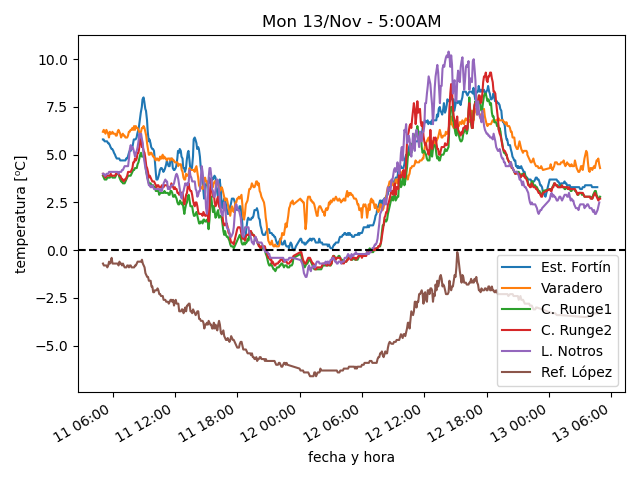
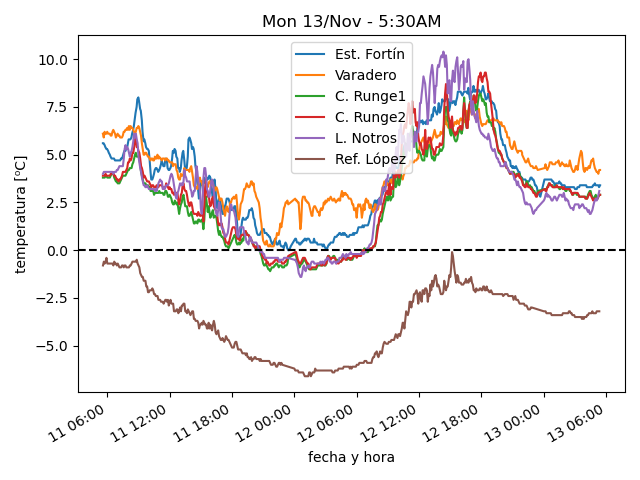
actualiza datos

diff --git a/estaciones/estacion6.html b/estaciones/estacion6.html
@@ -18,32 +18,32 @@
     </tr>
     <tr>
      <td class="stats_data">
-      4:45AM
+      5:20AM
      </td>
     </tr>
     <tr>
      <td class="stats_data">
-      -3.3⁰C
+      -3.2⁰C
      </td>
     </tr>
     <tr>
      <td class="stats_data">
-      -4.7⁰C
+      -4.8⁰C
      </td>
     </tr>
     <tr>
      <td class="stats_data">
-      90.0%
+      89.0%
      </td>
     </tr>
     <tr>
      <td class="stats_data">
-      1019.61hPa
+      1019.44hPa
      </td>
     </tr>
     <tr>
      <td class="stats_data">
-      9.7/29.0 km/hr SW
+      12.9/30.6 km/hr SW
      </td>
     </tr>
     <tr>
@@ -58,7 +58,7 @@
     </tr>
     <tr>
      <td class="stats_data">
-      900.0 W/m²
+      899.0 W/m²
      </td>
     </tr>
    </tbody>

diff --git a/estaciones/estacion2.html b/estaciones/estacion2.html
@@ -18,32 +18,32 @@
     </tr>
     <tr>
      <td class="stats_data">
-      4:54AM
+      5:24AM
      </td>
     </tr>
     <tr>
      <td class="stats_data">
-      4.3⁰C
+      4.2⁰C
      </td>
     </tr>
     <tr>
      <td class="stats_data">
-      -0.1⁰C
+      -0.4⁰C
      </td>
     </tr>
     <tr>
      <td class="stats_data">
-      72.8%
+      72.0%
      </td>
     </tr>
     <tr>
      <td class="stats_data">
-      1021.33hPa
+      1020.93hPa
      </td>
     </tr>
     <tr>
      <td class="stats_data">
-      7.2/10.6 km/hr WSW
+      8.9/13.7 km/hr SW
      </td>
     </tr>
     <tr>

diff --git a/estaciones/estacion3.html b/estaciones/estacion3.html
@@ -18,32 +18,32 @@
     </tr>
     <tr>
      <td class="stats_data">
-      4:54AM
+      5:24AM
      </td>
     </tr>
     <tr>
      <td class="stats_data">
-      2.8⁰C
+      2.9⁰C
      </td>
     </tr>
     <tr>
      <td class="stats_data">
-      -1.2⁰C
+      -1.3⁰C
      </td>
     </tr>
     <tr>
      <td class="stats_data">
-      74.9%
+      74.0%
      </td>
     </tr>
     <tr>
      <td class="stats_data">
-      1006.03hPa
+      1006.13hPa
      </td>
     </tr>
     <tr>
      <td class="stats_data">
-      7.8/11.2 km/hr W
+      5.6/8.0 km/hr WSW
      </td>
     </tr>
     <tr>

diff --git a/estaciones/estacion4.html b/estaciones/estacion4.html
@@ -18,32 +18,32 @@
     </tr>
     <tr>
      <td class="stats_data">
-      4:54AM
+      5:24AM
      </td>
     </tr>
     <tr>
      <td class="stats_data">
-      2.7⁰C
+      2.9⁰C
      </td>
     </tr>
     <tr>
      <td class="stats_data">
-      -2.0⁰C
+      -2.1⁰C
      </td>
     </tr>
     <tr>
      <td class="stats_data">
-      71.4%
+      69.7%
      </td>
     </tr>
     <tr>
      <td class="stats_data">
-      1015.04hPa
+      1014.63hPa
      </td>
     </tr>
     <tr>
      <td class="stats_data">
-      1.9/3.3 km/hr SW
+      2.0/3.0 km/hr SW
      </td>
     </tr>
     <tr>

diff --git a/estaciones/estacion5.html b/estaciones/estacion5.html
@@ -18,32 +18,32 @@
     </tr>
     <tr>
      <td class="stats_data">
-      4:50AM
+      5:20AM
      </td>
     </tr>
     <tr>
      <td class="stats_data">
-      2.5⁰C
+      3.1⁰C
      </td>
     </tr>
     <tr>
      <td class="stats_data">
-      -1.3⁰C
+      -1.2⁰C
      </td>
     </tr>
     <tr>
      <td class="stats_data">
-      76.0%
+      74.0%
      </td>
     </tr>
     <tr>
      <td class="stats_data">
-      1019.54hPa
+      1018.83hPa
      </td>
     </tr>
     <tr>
      <td class="stats_data">
-      0.0/0.0 km/hr N
+      0.0/2.6 km/hr N
      </td>
     </tr>
     <tr>

diff --git a/estaciones/estacion1.html b/estaciones/estacion1.html
@@ -18,17 +18,17 @@
     </tr>
     <tr>
      <td class="stats_data">
-      4:38AM
+      5:24AM
      </td>
     </tr>
     <tr>
      <td class="stats_data">
-      3.3⁰C
+      3.4⁰C
      </td>
     </tr>
     <tr>
      <td class="stats_data">
-      -2.2⁰C
+      -2.1⁰C
      </td>
     </tr>
     <tr>
@@ -43,7 +43,7 @@
     </tr>
     <tr>
      <td class="stats_data">
-      16.9/33.8 km/hr W
+      19.3/29.0 km/hr WSW
      </td>
     </tr>
     <tr>
